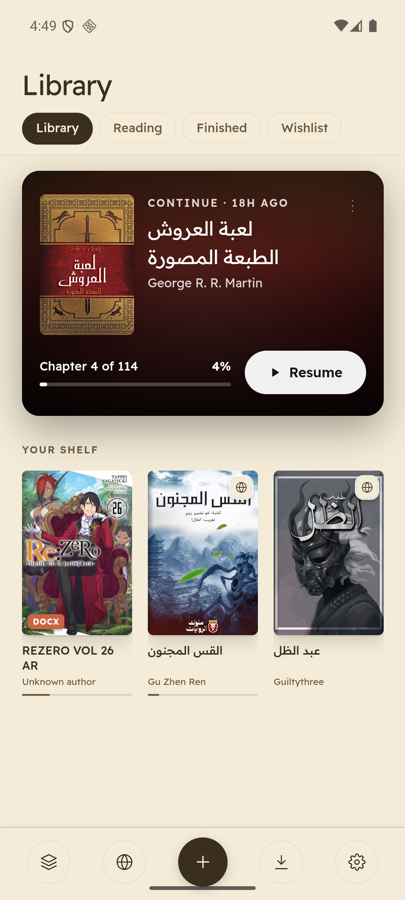
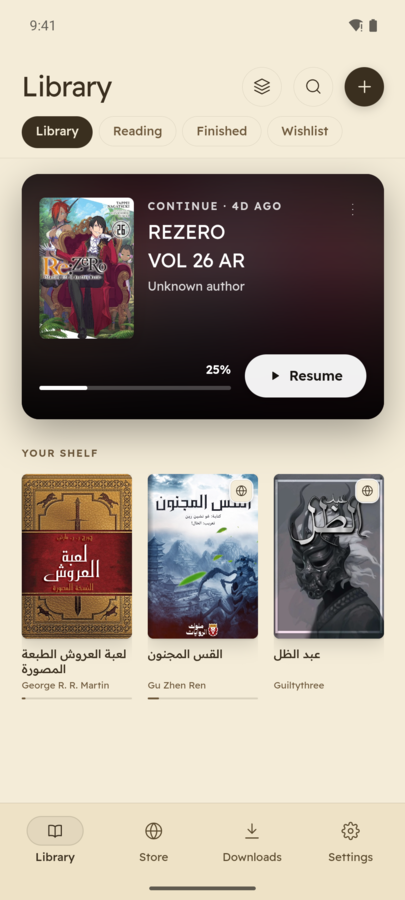
docs: phone screenshots for 0.7.0
Re-shot on the Android emulator from a 0.7.0 debug build at the
device's native 1080x2400, on the same four-book library as 0.6.0.

- Library, Store and Settings show the tabbed home with the Labelled
  home bar; the novel page shows its centred cover.
- New: highlighting (three lines selected, the toolbar under them), the
  Status line reader bar with minutes left, and the bar pickers in
  Appearance.
- F-Droid: English gains the new three; the Arabic set is re-shot with
  the UI in Arabic and gains highlighting.
- README: a row for the new shots, a line for the bar styles, and
  "eight colours" for highlights (it still said four).

The reader, sheets, contents, PDF, Word and focus shots look the same in
0.7.0 and are unchanged.

diff --git a/README.md b/README.md
@@ -32,11 +32,12 @@ moves the sidebar, flips the icons and translates every label.
 |---|---|
 | Read | EPUB 2/3, PDF, `.docx`. A continuous scroll, one page, or two. Word files open either as flowing text or page-for-page, and your highlights follow you between the two. |
 | Library | Shelves, and four styles for the Continue Reading card — pick the one you like in Settings. |
+| Bars | On the phone, six styles for the bar under your book and six for the home screen's tabs, from a full labelled bar to two corner buttons. Settings ▸ Appearance. |
 | Updates | Riwaq tells you what changed and installs it: in the app on Windows, macOS, the Linux AppImage and Android. |
 | Type | 16 bundled faces across Naskh, modern sans, Kufi and display. Size, line height, letter spacing, paragraph spacing, width, alignment, hyphenation. |
 | Themes | Light, Sepia, Dark, and a true black for OLED. Or follow the system. |
 | Focus mode | Everything but the page goes, including Android's system bars. On desktop your progress stays as a thin rail along the top. Double tap, or tap the lock, to come back. |
-| Highlight | Four colours, notes, and a sidebar that collects every one with the chapter it came from. |
+| Highlight | Eight colours, notes, and a sidebar that collects every one with the chapter it came from. |
 | Store | Browse Arabic web novel sites inside the app. Read online, add to the library, download a range of chapters, or bake the lot into one EPUB. |
 | Extensions | Sources install at runtime from a repository. Add your own. Nothing is compiled in. |
 | Languages | English and العربية, mirrored all the way down. |
@@ -156,7 +157,7 @@ you chose too, at a fixed ratio to the body.
 </details>
 
 <details>
-<summary><b>Android</b>: library, reader, sheets, store, focus mode</summary>
+<summary><b>Android</b>: library, reader, highlighting, bar styles, store, focus mode</summary>
 <br/>
 <table>
   <tr>
@@ -176,6 +177,12 @@ you chose too, at a fixed ratio to the body.
     <td align="center" width="25%"><img src="docs/screenshots/mobile/12-docx-pages.png" alt="The same Word file page-for-page"/><br/><b>Word · pages</b></td>
     <td align="center" width="25%"><img src="docs/screenshots/mobile/09-focus-entry.png" alt="Entering focus mode"/><br/><b>Focus, entering</b></td>
     <td align="center" width="25%"><img src="docs/screenshots/mobile/10-focus-mode.png" alt="Focus at rest"/><br/><b>Focus, at rest</b></td>
+  </tr>
+  <tr>
+    <td align="center" width="25%"><img src="docs/screenshots/mobile/14-highlight.png" alt="Selecting three lines, with the highlight toolbar under them"/><br/><b>Highlighting</b></td>
+    <td align="center" width="25%"><img src="docs/screenshots/mobile/15-reader-status.png" alt="The Status line reader bar, with minutes left in the chapter"/><br/><b>Status line bar</b></td>
+    <td align="center" width="25%"><img src="docs/screenshots/mobile/13-appearance-bars.png" alt="Choosing the reader bar and home bar in Appearance"/><br/><b>Bar styles</b></td>
+    <td width="25%"></td>
   </tr>
 </table>
 </details>
